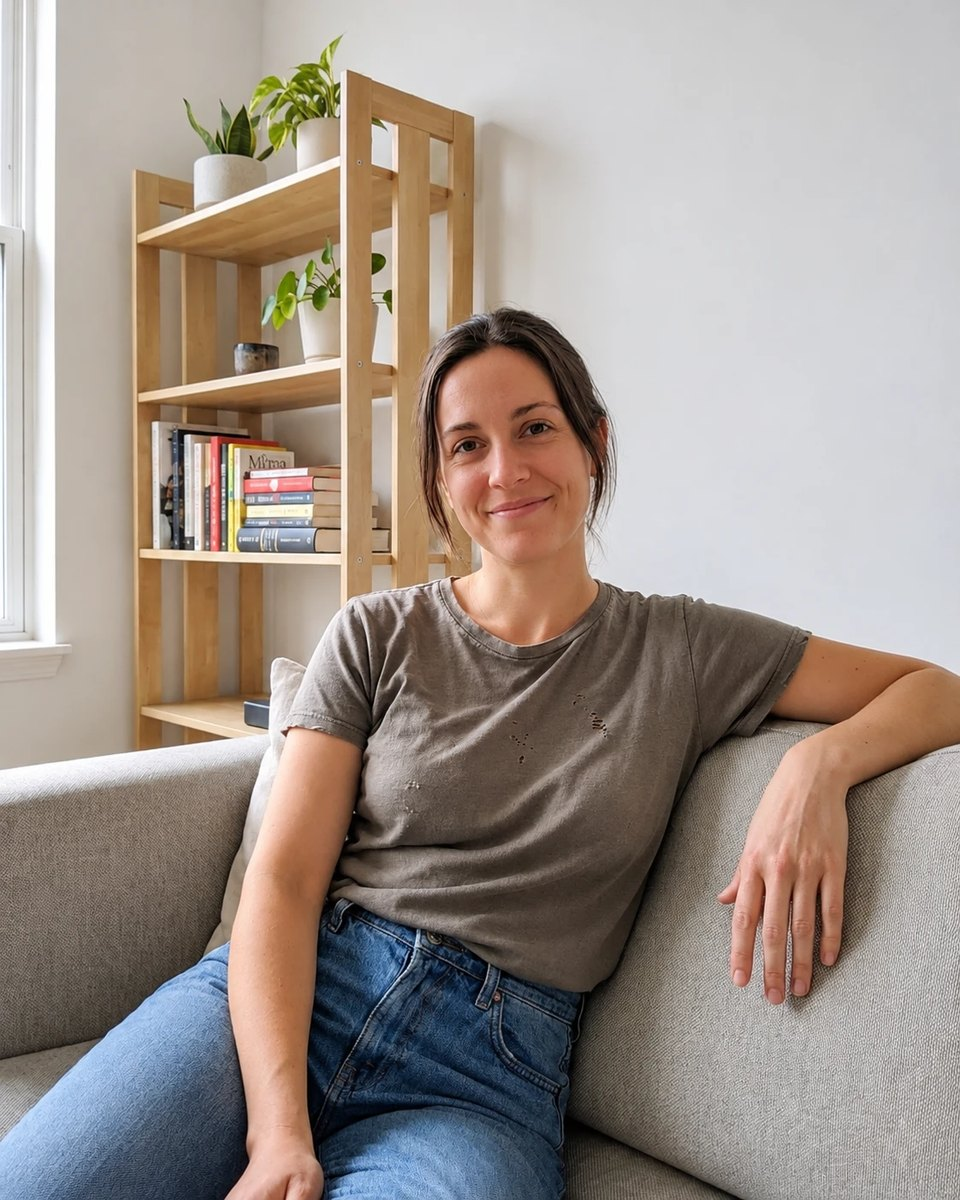
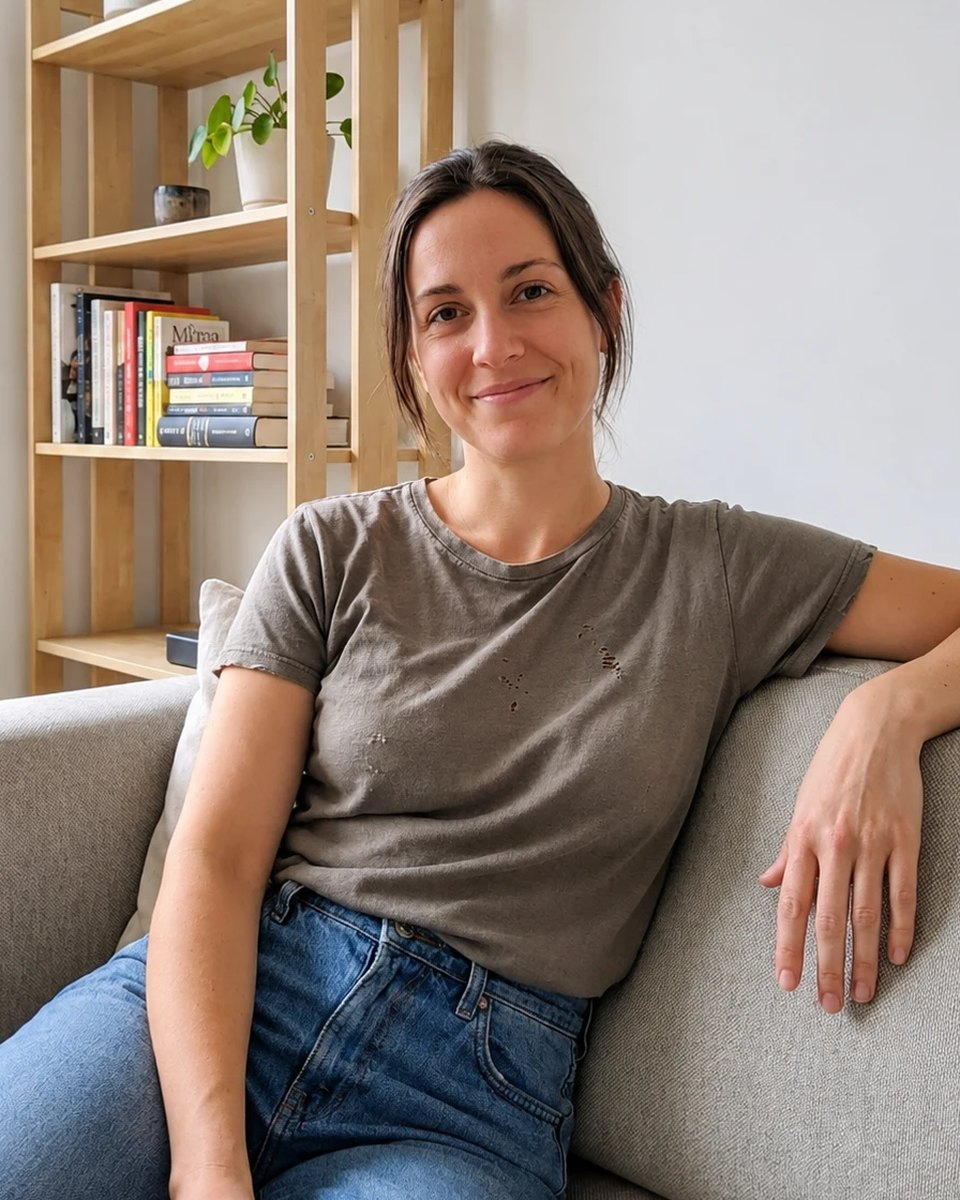
Antes e depois com três estilos a partir da mesma foto
Botões Executivo, Leve e Sofisticado trocam o depois; as quatro fotos
foram alinhadas pelo rosto (mesma posição e tamanho) para a
comparação não dar saltos.

Claude-Session: https://claude.ai/code/session_01GqKxHz5CXYJTTqo9KhKnfc

diff --git a/portfolio-nd/js/main.js b/portfolio-nd/js/main.js
@@ -268,20 +268,22 @@
   /* Antes e depois (comparador deslizante) */
   const ba = window.BEFORE_AFTER;
   const iaBlock = $("#port-fotos-com-ia");
-  if (ba && ba.before && ba.after && iaBlock) {
+  const baAfters = ba ? (ba.afters && ba.afters.length ? ba.afters : ba.after ? [{ label: "Depois", src: ba.after }] : []) : [];
+  if (ba && ba.before && baAfters.length && iaBlock) {
     iaBlock.insertAdjacentHTML("afterend", `
       <div class="ba reveal">
         <div class="ba__text">
           <p class="eyebrow">Antes e depois</p>
           <h3 class="ba__title">${esc(ba.title || "")}</h3>
           <p>${esc(ba.text || "")}</p>
+          ${baAfters.length > 1 ? `<div class="ba__tabs" role="tablist" aria-label="Escolha o estilo">${baAfters.map((a, i) => `<button type="button" role="tab" class="ba__tab${i === 0 ? " is-active" : ""}" aria-selected="${i === 0}" data-i="${i}">${esc(a.label)}</button>`).join("")}</div>` : ""}
           ${ba.note ? `<small class="ba__note">${esc(ba.note)}</small>` : ""}
         </div>
         <div class="ba__frame" style="--pos:50%">
-          <img class="ba__img" src="${esc(ba.after)}" alt="Depois: foto profissional criada com IA" loading="lazy" />
+          ${baAfters.map((a, i) => `<img class="ba__img ba__img--after${i === 0 ? " is-on" : ""}" src="${esc(a.src)}" alt="Depois: estilo ${esc(a.label)}, criado com IA" loading="lazy" />`).join("")}
           <img class="ba__img ba__img--before" src="${esc(ba.before)}" alt="Antes: foto comum de celular" loading="lazy" />
           <span class="ba__tag ba__tag--before" aria-hidden="true">Antes</span>
-          <span class="ba__tag ba__tag--after" aria-hidden="true">Depois</span>
+          <span class="ba__tag ba__tag--after" aria-hidden="true">${esc(baAfters.length > 1 ? baAfters[0].label : "Depois")}</span>
           <span class="ba__handle" aria-hidden="true"><span>‹ ›</span></span>
           <input class="ba__range" type="range" min="0" max="100" value="50" aria-label="Arraste para comparar o antes e o depois" />
         </div>
@@ -289,6 +291,12 @@
     const frame = $(".ba__frame");
     const range = $(".ba__range");
     const setPos = (v) => frame.style.setProperty("--pos", `${v}%`);
+    $$(".ba__tab").forEach((tab) => tab.addEventListener("click", () => {
+      const i = Number(tab.dataset.i);
+      $$(".ba__tab").forEach((t) => { t.classList.toggle("is-active", t === tab); t.setAttribute("aria-selected", String(t === tab)); });
+      $$(".ba__img--after").forEach((img, k) => img.classList.toggle("is-on", k === i));
+      $(".ba__tag--after").textContent = baAfters[i].label;
+    }));
     range.addEventListener("input", () => { frame.classList.add("is-touched"); setPos(range.value); });
     // pequena demonstração automática quando aparece pela primeira vez
     if (!reduceMotion) {

diff --git a/portfolio-nd/css/style.css b/portfolio-nd/css/style.css
@@ -672,3 +672,12 @@ em {
 .ba__range { position: absolute; inset: 0; width: 100%; height: 100%; margin: 0; opacity: 0; cursor: ew-resize; -webkit-appearance: none; appearance: none; }
 .ba__range:focus-visible + .ba__handle, .ba__frame:focus-within .ba__handle span { outline: 2px solid var(--accent-2); outline-offset: 2px; }
 @media (max-width: 860px) { .ba { grid-template-columns: 1fr; } .ba__frame { max-width: 460px; justify-self: center; } }
+
+/* várias versões do "depois" */
+.ba__img--after { opacity: 0; transition: opacity .5s var(--ease); }
+.ba__img--after.is-on { opacity: 1; }
+.ba__tabs { display: flex; flex-wrap: wrap; gap: 8px; margin: 6px 0 18px; }
+.ba__tab { padding: 10px 18px; border-radius: 999px; border: 1px solid var(--line); background: transparent; color: var(--muted); font-size: 14px; font-weight: 600; transition: all .3s var(--ease); }
+.ba__tab:hover { color: var(--text); border-color: rgba(255,255,255,.3); }
+.ba__tab.is-active { background: var(--accent); border-color: var(--accent); color: #fff; }
+.ba__tab:focus-visible { outline: 2px solid var(--accent-2); outline-offset: 2px; }

diff --git a/portfolio-nd/js/data.js b/portfolio-nd/js/data.js
@@ -244,8 +244,13 @@ window.FAQ = [
    --------------------------------------------------------- */
 window.BEFORE_AFTER = {
   before: "assets/img/portfolio/ia-antes.jpg",
-  after: "assets/img/portfolio/ia-depois.jpg",
+  // várias versões criadas a partir da mesma foto (botões acima do comparador)
+  afters: [
+    { label: "Executivo", src: "assets/img/portfolio/ia-depois-1.jpg" },
+    { label: "Leve", src: "assets/img/portfolio/ia-depois-2.jpg" },
+    { label: "Sofisticado", src: "assets/img/portfolio/ia-depois-3.jpg" },
+  ],
   title: "Da foto comum à foto profissional.",
-  text: "Com uma foto simples tirada no celular, eu crio retratos profissionais com Inteligência Artificial, mantendo o seu rosto e a sua expressão. Muda o figurino, a luz e o ambiente, sem precisar de estúdio.",
+  text: "A partir de uma única foto simples tirada no celular, eu crio retratos profissionais com Inteligência Artificial em vários estilos, mantendo o seu rosto e a sua expressão. Muda o figurino, a luz e o ambiente, sem precisar de estúdio.",
   note: "Exemplo ilustrativo criado com IA.",
 };
